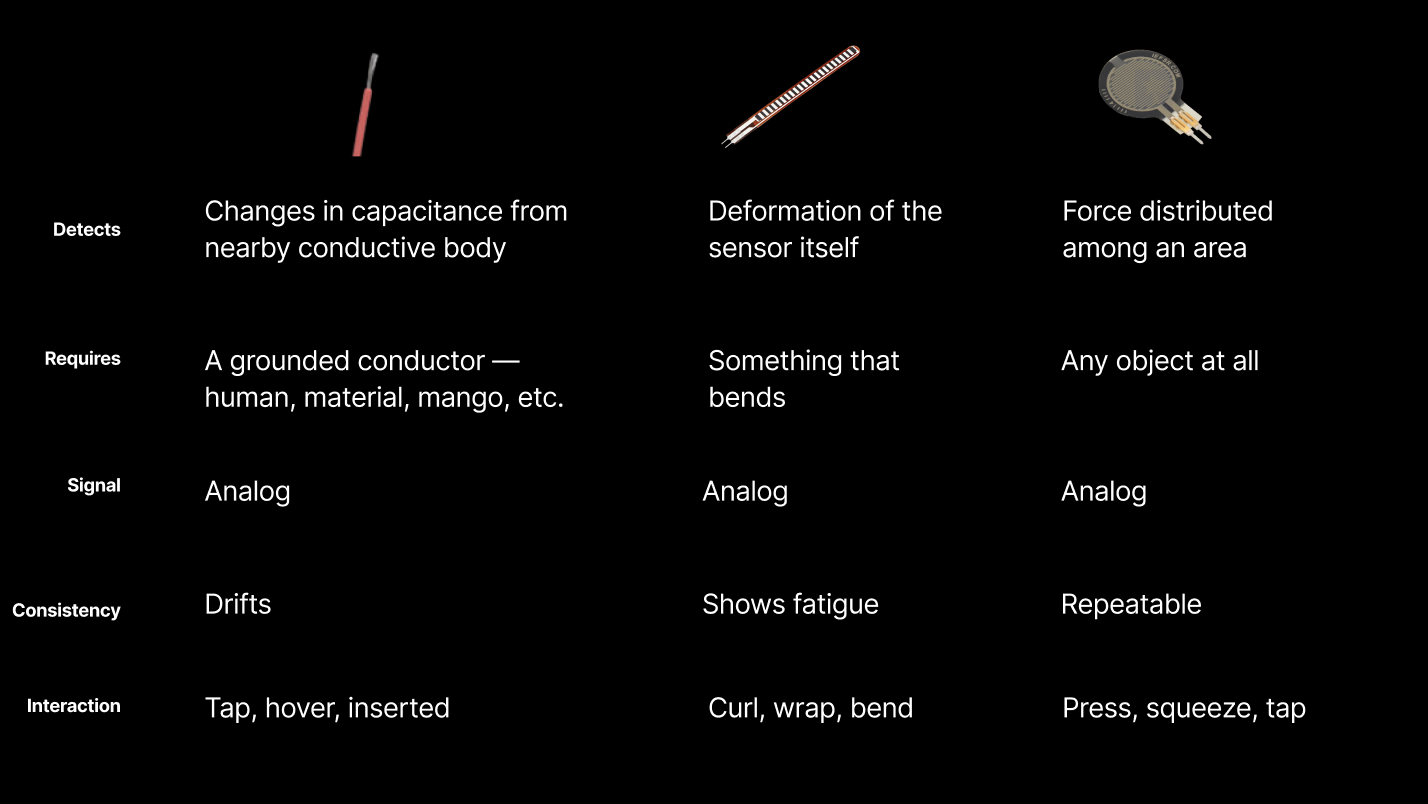
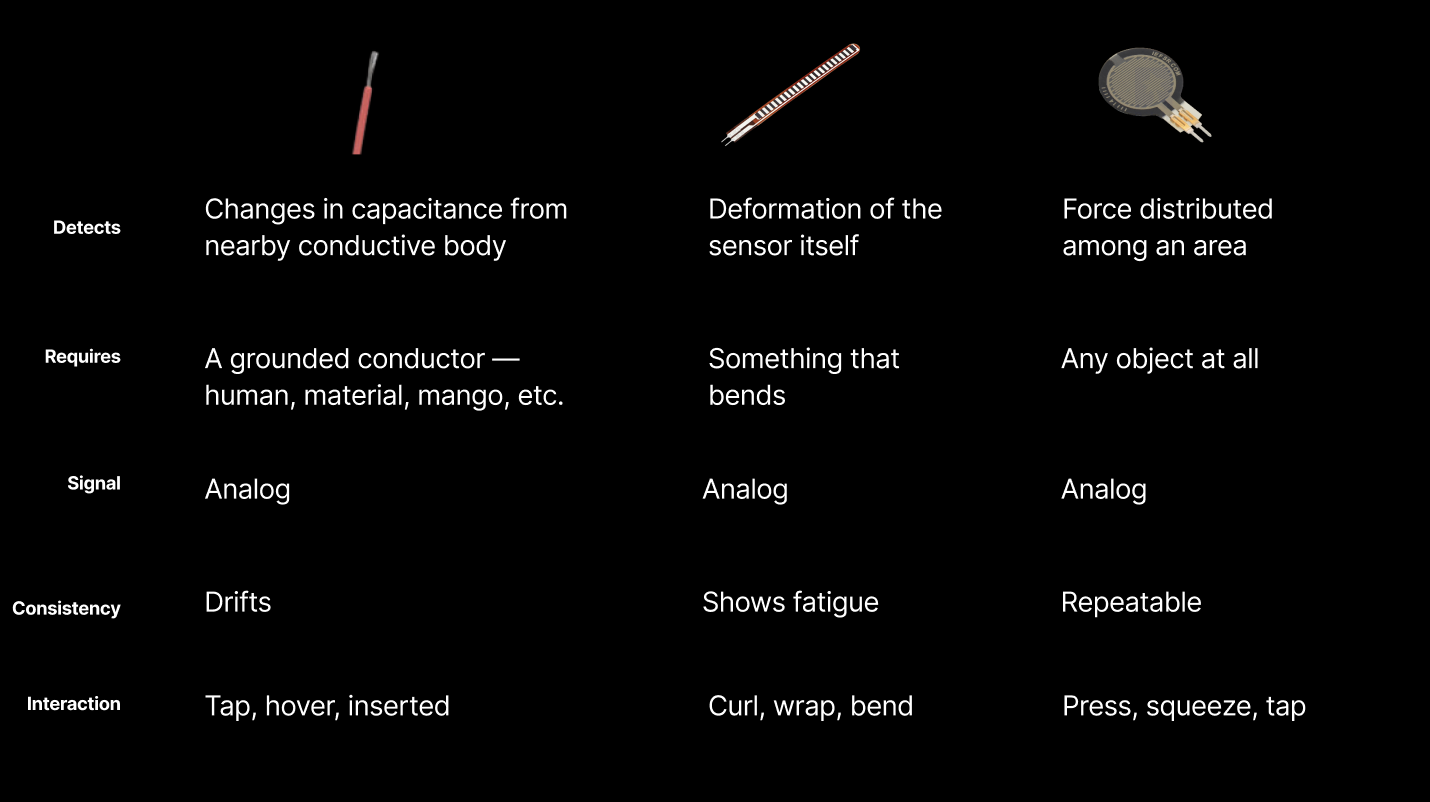
Update post: assignment 2

diff --git a/src/content/posts/assignment-2.md b/src/content/posts/assignment-2.md
@@ -2,7 +2,6 @@
 title: assignment 2
 pubDate: 2026-09-15
 journal: physical-computing
-draft: true
 ---
 
 # Touch Sensors
